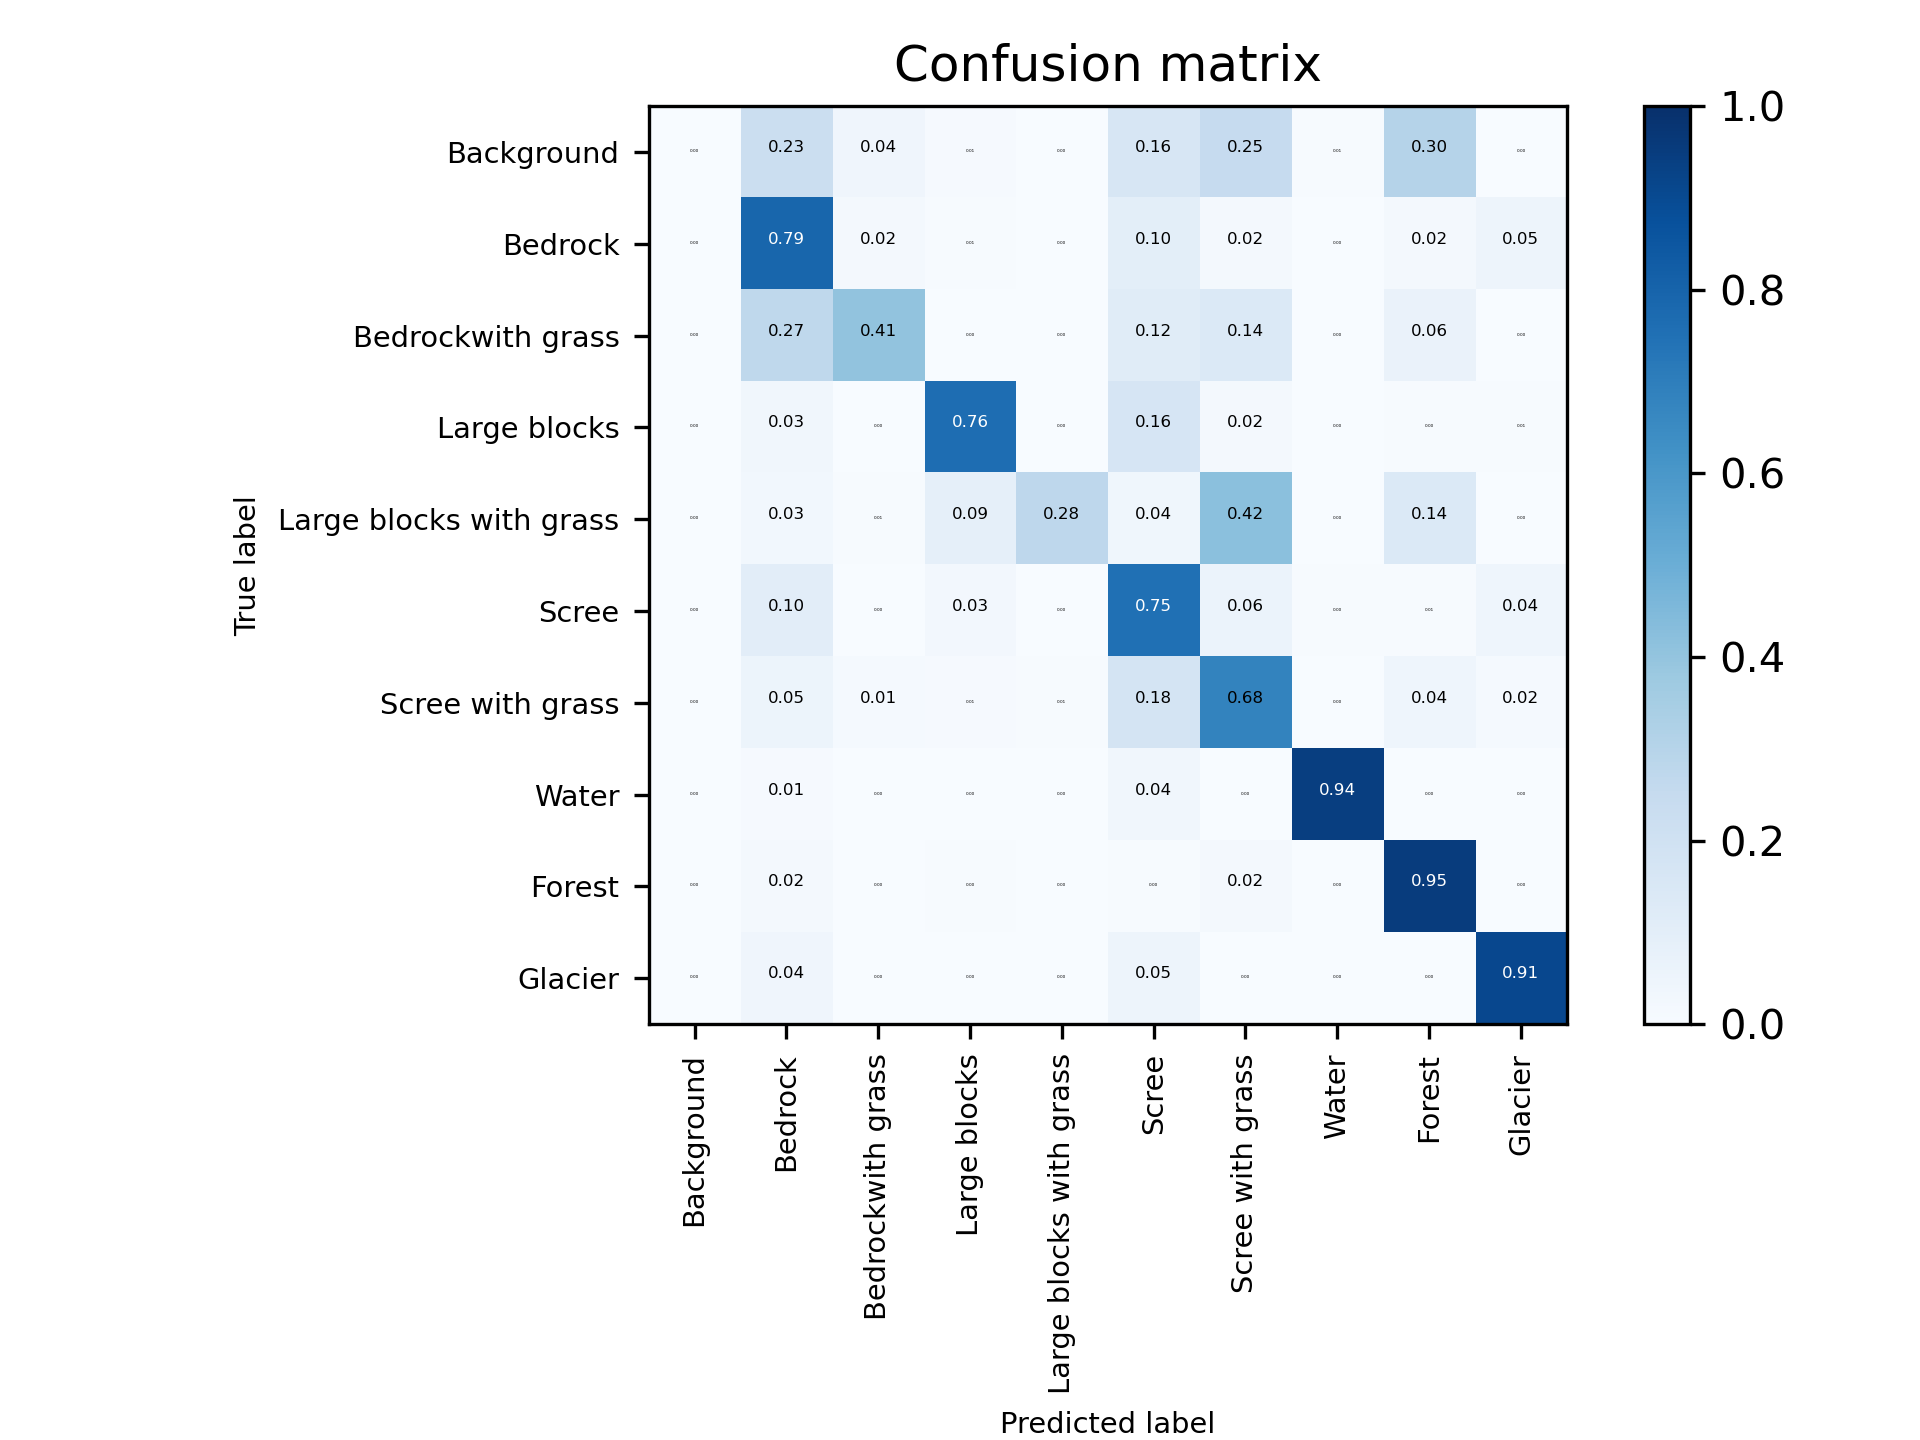
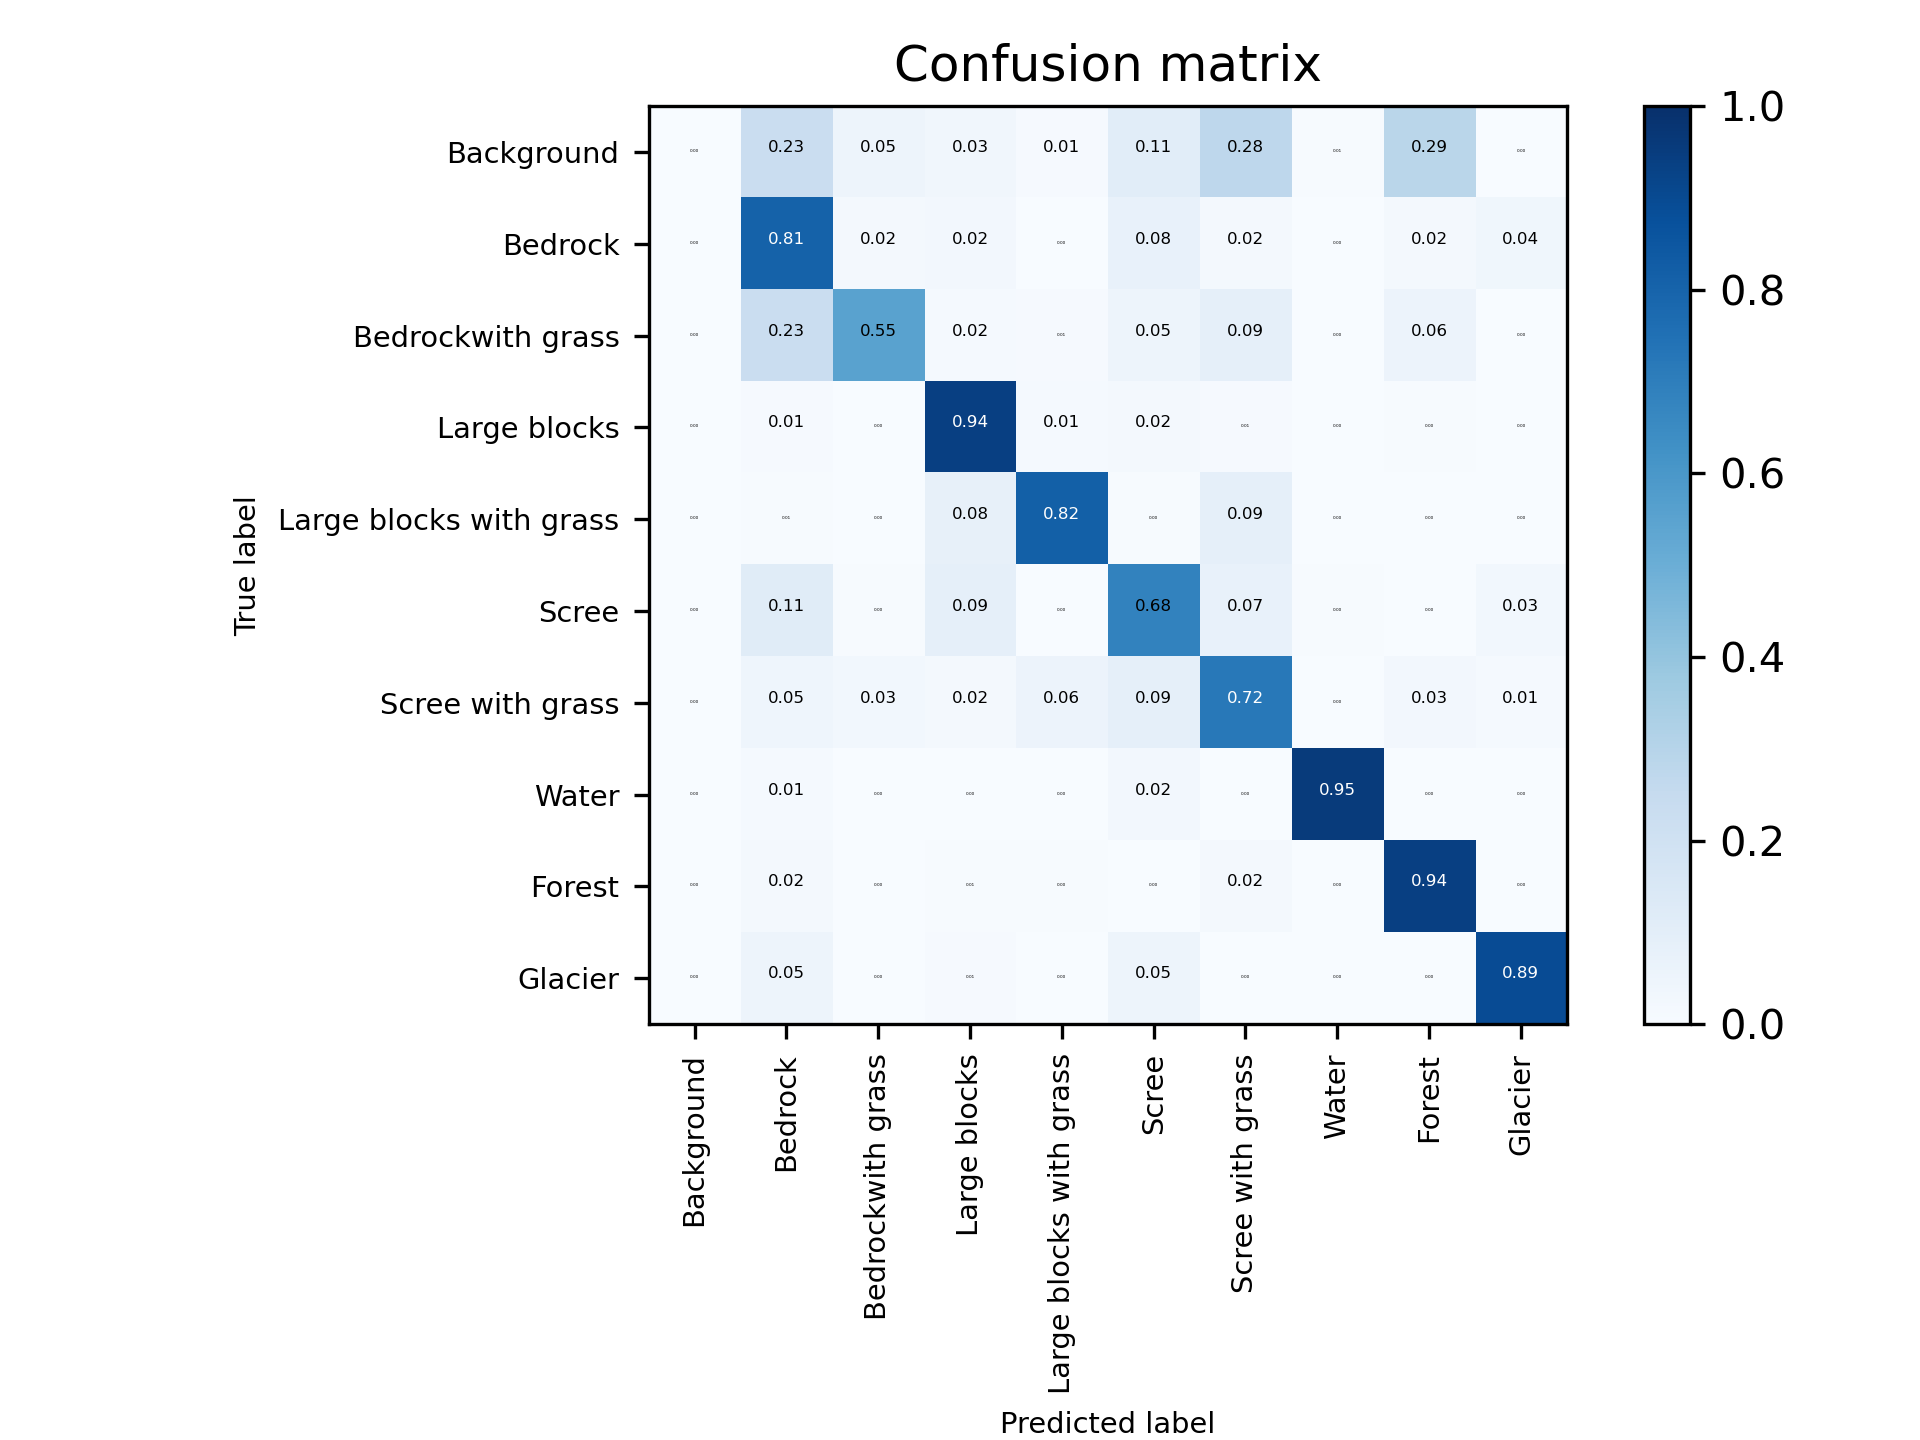
fixing complementary loss

Changed region(s): [[0.4062, 0.1875, 0.6875, 0.4062], [0.7188, 0.3125, 0.7812, 0.4062]]

diff --git a/losses/ACE_losses.py b/losses/ACE_losses.py
@@ -5,59 +5,57 @@ from torch.nn import CrossEntropyLoss, MSELoss
 
 
 class MyCrossEntropyLoss(nn.Module):
+    
     def __init__(self, ignore_index=0):
+        
         super(MyCrossEntropyLoss, self).__init__()
-
         self.ce = nn.CrossEntropyLoss(ignore_index= ignore_index)
 
     def forward(self, output, targets):
-        
+    
         if isinstance(output,dict):
-       
             return self.ce( output['out'], targets )
+        
         else :
             return self.ce( output, targets )
 
 
 
 class CELoss_2experts(nn.Module):
+    
     def __init__(self, args,ignore_index=0):
+        
         super(CELoss_2experts, self).__init__()
         self.device = args.device
-        self.few_index = torch.Tensor([2, 3, 4, 6, 7]).to(args.device)
-        self.many_index =  torch.Tensor([1, 5, 8, 9]). to(args.device)
-        self.weight = torch.tensor(
-            [0, 0, 1, 1, 1, 0, 1, 1, 0, 0], # 1 for few index, 0 for many index
-            dtype=torch.float).to(args.device)
+        self.tail_index = torch.Tensor([2, 3, 4, 6, 7]).to(args.device)
+        self.head_index =  torch.Tensor([1, 5, 8, 9]). to(args.device)
+        self.tail_one_hot= torch.tensor(
+            [0, 0, 1, 1, 1, 0, 1, 1, 0, 0], # 1 for tail index, 0 for head index
+            dtype=torch.float).to(self.device)
         self.celoss= CrossEntropyLoss(ignore_index=ignore_index)
-        self.masked_celoss = CrossEntropyLoss( ignore_index=ignore_index, weight=self.weight)
+        self.masked_celoss = CrossEntropyLoss( ignore_index=ignore_index, weight=self.tail_one_hot)
         self.use_L2_penalty = args.L2penalty
-        if self.use_L2_penalty :
-            self.complementary_loss = MSELoss(reduction='mean')
-               
+              
                 
 
     def forward(self, output, targets):       
         
-        # Compute a simple CE loss for the many expert :
-        many_loss = self.celoss(output['exp_0'], targets)
-
-        # Compute the loss from the few expert only if there are pixel from few classes
-        is_few_pixel = torch.isin(targets, self.few_index)
+        # Compute the classification loss for the head expert :
+        head_loss = self.celoss(output['exp_0'], targets)
         
-        if is_few_pixel.any(): 
-            few_loss = self.masked_celoss(output['exp_1'], targets)
-            
-            if self.use_L2_penalty: # penalty for predicting frequent classes
+        # Compute the classification loss from the tail expert only if there are pixel from tail classes
+        tail_loss = torch.Tensor([0.]).to(self.device)
+        is_tail_pixel = torch.isin(targets, self.tail_index)        
+        if is_tail_pixel.any(): 
+            tail_loss += self.masked_celoss(output['exp_1'], targets)
+        
+        # Compute complementary loss : L2 penalty for predicting frequent classes from the tail expert
+        if self.use_L2_penalty: 
                 size = output['exp_1'].shape
-                mask  = torch.logical_not(is_few_pixel).long().unsqueeze(1)
-                few_loss += self.complementary_loss(mask.expand(size)*output['exp_1'], torch.zeros(size).to(self.device))             
-                
-        else :
-            few_loss = torch.Tensor([0.]).to(self.device)
-        
-        
-        return  many_loss , few_loss
+                mask  = torch.logical_not(is_tail_pixel).long().unsqueeze(1)
+                tail_loss += torch.norm ( mask.expand(size)*output['exp_1'] )
+                        
+        return  head_loss , tail_loss
     
         
 
@@ -66,56 +64,60 @@ class CELoss_3experts(nn.Module):
     def __init__(self,  args, ignore_index=0):
         super(CELoss_3experts, self).__init__()
         self.device = args.device
-        self.few_index = torch.tensor([3, 4]).to(args.device)
-        self.medium_index = torch.tensor([ 2, 3, 4, 6, 7 ]).to(args.device)
-        self.many_index = torch.tensor([1, 5, 8, 9]).to(args.device)
-        self.medium_weight = torch.tensor([0, 0, 1, 1, 1, 0, 1, 1, 0, 0], 
+        self.tail_index = torch.tensor([3, 4]).to(args.device)
+        self.body_index = torch.tensor([ 2, 3, 4, 6, 7 ]).to(args.device)
+        self.head_index = torch.tensor([1, 5, 8, 9]).to(args.device)
+        self.body_weight = torch.tensor([0, 0, 1, 1, 1, 0, 1, 1, 0, 0], 
                                           dtype=torch.float).to(args.device)
-        self.few_weight =    torch.tensor([0, 0, 0, 1, 1, 0, 0, 0, 0, 0], 
+        self.tail_weight =    torch.tensor([0, 0, 0, 1, 1, 0, 0, 0, 0, 0], 
                                           dtype=torch.float).to(args.device)
         self.celoss= CrossEntropyLoss(ignore_index=0)
-        self.medium_masked_celoss = CrossEntropyLoss(weight=self.medium_weight, ignore_index=0)
-        self.few_masked_celoss = CrossEntropyLoss(weight=self.few_weight, ignore_index=0)
+        self.body_masked_celoss = CrossEntropyLoss(weight=self.body_weight, ignore_index=0)
+        self.tail_masked_celoss = CrossEntropyLoss(weight=self.tail_weight, ignore_index=0)
         self.use_L2_penalty = args.L2penalty
         if self.use_L2_penalty :
             self.complementary_loss = MSELoss(reduction='mean')
         self.use_LWS = args.lws
 
-    def forward(self, output, targets, **kwargs):
+    def forward(self, output, targets):
         
-        # Compute a simple CE loss for the many expert :
-        many_loss = self.celoss(output['exp_0'], targets)     
+        # Compute the classification loss for the head expert :
+        head_loss = self.celoss(output['exp_0'], targets)     
         
-        # Compute the loss from the medium expert only if there are pixel from medium classes
-        is_medium_pixel = torch.isin(targets, self.medium_index )
-        if is_medium_pixel.any() : 
-            medium_loss = self.medium_masked_celoss(output['exp_1'], targets)
+        # Compute the classification loss from the body expert, only if there are pixel from body classes
+        body_loss = torch.Tensor([0.]).to(self.device)
+        is_body_pixel = torch.isin(targets, self.body_index )        
+        if is_body_pixel.any() : 
+            body_loss += self.body_masked_celoss(output['exp_1'], targets)
             
-            if self.use_L2_penalty: # penalty for predicting frequent classes
-                mask  = torch.logical_not(is_medium_pixel).long().unsqueeze(1)
-                size = output['exp_1'].shape
-                medium_loss += self.complementary_loss(mask.expand(size)*output['exp_1'], torch.zeros(size).to(self.device)) 
+        # Compute the classification  loss from the tail expert, only if there are pixel from tail classes
+        tail_loss = torch.Tensor([0.]).to(self.device)
+        is_tail_pixel = torch.isin(targets, self.tail_index)        
+        if is_tail_pixel.any():         
+            tail_loss += self.tail_masked_celoss(output['exp_2'], targets)    
             
-        else :
-            medium_loss = torch.Tensor([0.]).to(self.device)
-
-        # Compute the loss from the few expert only if there are pixel from few classes
-        is_few_pixel = torch.isin(targets, self.few_index)
-        if is_few_pixel.any():   
+        # Compute complementary loss : 
+        if self.use_L2_penalty:
+            # L2 penalty for predicting head  classes from the body expert 
+            size = output['exp_1'].shape   
+            mask  = torch.logical_not(is_body_pixel).long().unsqueeze(1)
+            body_loss += torch.norm ( mask.expand(size)*output['exp_1'] )            
             
-            few_loss = self.few_masked_celoss(output['exp_2'], targets)
+            # L2 penalty for predicting head and body classes from the tail expert 
+            size = output['exp_2'].shape
+            mask  = torch.logical_not(is_tail_pixel).long().unsqueeze(1)
+            tail_loss += torch.norm ( mask.expand(size)*output['exp_2'] )       
             
-            if  self.use_L2_penalty: # penalty for predicting frequent classes
-                size = output['exp_2'].shape
-                mask  = torch.logical_not(is_few_pixel).long().unsqueeze(1)
-                few_loss += self.complementary_loss(mask.expand(size)*output['exp_2'], torch.zeros(size).to(self.device))        
-            
-        else :
-            few_loss = torch.Tensor([0.]).to(self.device)
                       
             
-        return many_loss, medium_loss, few_loss
+        return head_loss, body_loss, tail_loss
     
     
+        
+
+
+        
+        
+        
 
   

diff --git a/dataset/SwissImageDataset.py b/dataset/SwissImageDataset.py
@@ -14,10 +14,10 @@ from utils.transforms import MinMaxScaler, AbsoluteScaler
 
 class SwissImage(Dataset):
     '''Transformer needed to be added'''
-    def __init__(self, dataset_csv, img_dir, dem_dir, mask_dir, common_transform=None, img_transform=None, debug=False):
+    def __init__(self, dataset_csv, img_dir, dem_dir, label_dir, common_transform=None, img_transform=None, debug=False):
         self.img_dir = img_dir
         self.dem_dir = dem_dir
-        self.mask_dir = mask_dir
+        self.label_dir = label_dir
         self.img_dem_label = pd.read_csv(dataset_csv)
         if debug:
             self.img_dem_label = self.img_dem_label.iloc[:250]
@@ -35,16 +35,16 @@ class SwissImage(Dataset):
     def __getitem__(self, idx):
         img_path = os.path.join(self.img_dir, self.img_dem_label.iloc[idx, 0])
         dem_path = os.path.join(self.dem_dir, self.img_dem_label.iloc[idx, 1])
-        mask_path = os.path.join(self.mask_dir, self.img_dem_label.iloc[idx, 2])
+        label_path = os.path.join(self.label_dir, self.img_dem_label.iloc[idx, 2])
         image = Image.open(img_path)
         
-        ## resize rgb images from 400x400 to 200x200 to match the size of mask
+        ## resize rgb images from 400x400 to 200x200 to match the size of label
         image = image.resize((200,200))
         dem = Image.open(dem_path)
-        mask = Image.open(mask_path)
+        label = Image.open(label_path)
         
         if self.common_transform is not None:
-            image, dem, mask = self.common_transform(image, dem, mask)
+            image, dem, label = self.common_transform(image, dem, label)
 
         if self.img_transform is not None:
             image = self.img_transform(image)
@@ -63,8 +63,8 @@ class SwissImage(Dataset):
                                          
         image = basic_transform(image)
         dem = dem_transform(dem)
-        mask = transforms.ToTensor()(mask)
-        return image, dem, mask
+        label = transforms.ToTensor()(label)
+        return image, dem, label
 
     def _getImbalancedCount(self):
         count = Counter(self.img_dem_label['few'])
@@ -123,9 +123,9 @@ if __name__ =="__main__":
         
     img_dir = '/home/valerie/data/rocky_tlm/rgb/'  #'/data/xiaolong/rgb'
     dem_dir = '/home/valerie/data/rocky_tlm/dem/' # /data/xiaolong/dem'
-    mask_dir = '/home/valerie/data/ace_alps/mask'
+    label_dir = '/home/valerie/data/ace_alps/label'
     
-    ds = SwissImage(dataset_csv,img_dir,dem_dir,mask_dir,common_transform=None,img_transform=None,debug=False)
+    ds = SwissImage(dataset_csv,img_dir,dem_dir,label_dir,common_transform=None,img_transform=None,debug=False)
     print(ds[0][0].shape,ds[0][1].shape,ds[0][2].shape,)
     
 

diff --git a/losses/aggregator_losses.py b/losses/aggregator_losses.py
@@ -12,7 +12,7 @@ class AggregatorLoss(nn.Module):
                 # Wegihts from class balanced loss :
         #'Background', "Bedrock", "Bedrockwith grass", "Large blocks", "Large blocks with grass", "Scree",  "Scree with grass","Water", "Forest" , "Glacier" ,
         weights = torch.Tensor ([0.0, 1e-3,      5e-3,               1e-2,             1e-1,                         1e-3 ,     2e-3,        3e-3,       1e-3,       1e-3  ]).to(args.device)
-        print('uses weights in the aggregator loss')
+        print('uses weights in the aggregator loss','*'*150)
         
         self.ce = nn.CrossEntropyLoss(ignore_index= ignore_index,weight= weights)
 

diff --git a/models/ACE_Better_DeepLabV3Plus.py b/models/ACE_Better_DeepLabV3Plus.py
@@ -16,7 +16,7 @@ class CNN_aggregator(nn.Module):
                             nn.Conv2d(input_dim, hidden_layers, 3, padding=1, bias=False),
                             nn.BatchNorm2d(hidden_layers),
                             nn.ReLU(inplace=True),
-                            nn.Dropout(p=0.2),
+              #              nn.Dropout(p=0.2),
                             nn.Conv2d(hidden_layers, output_dim, 1)
                         ) 
    
